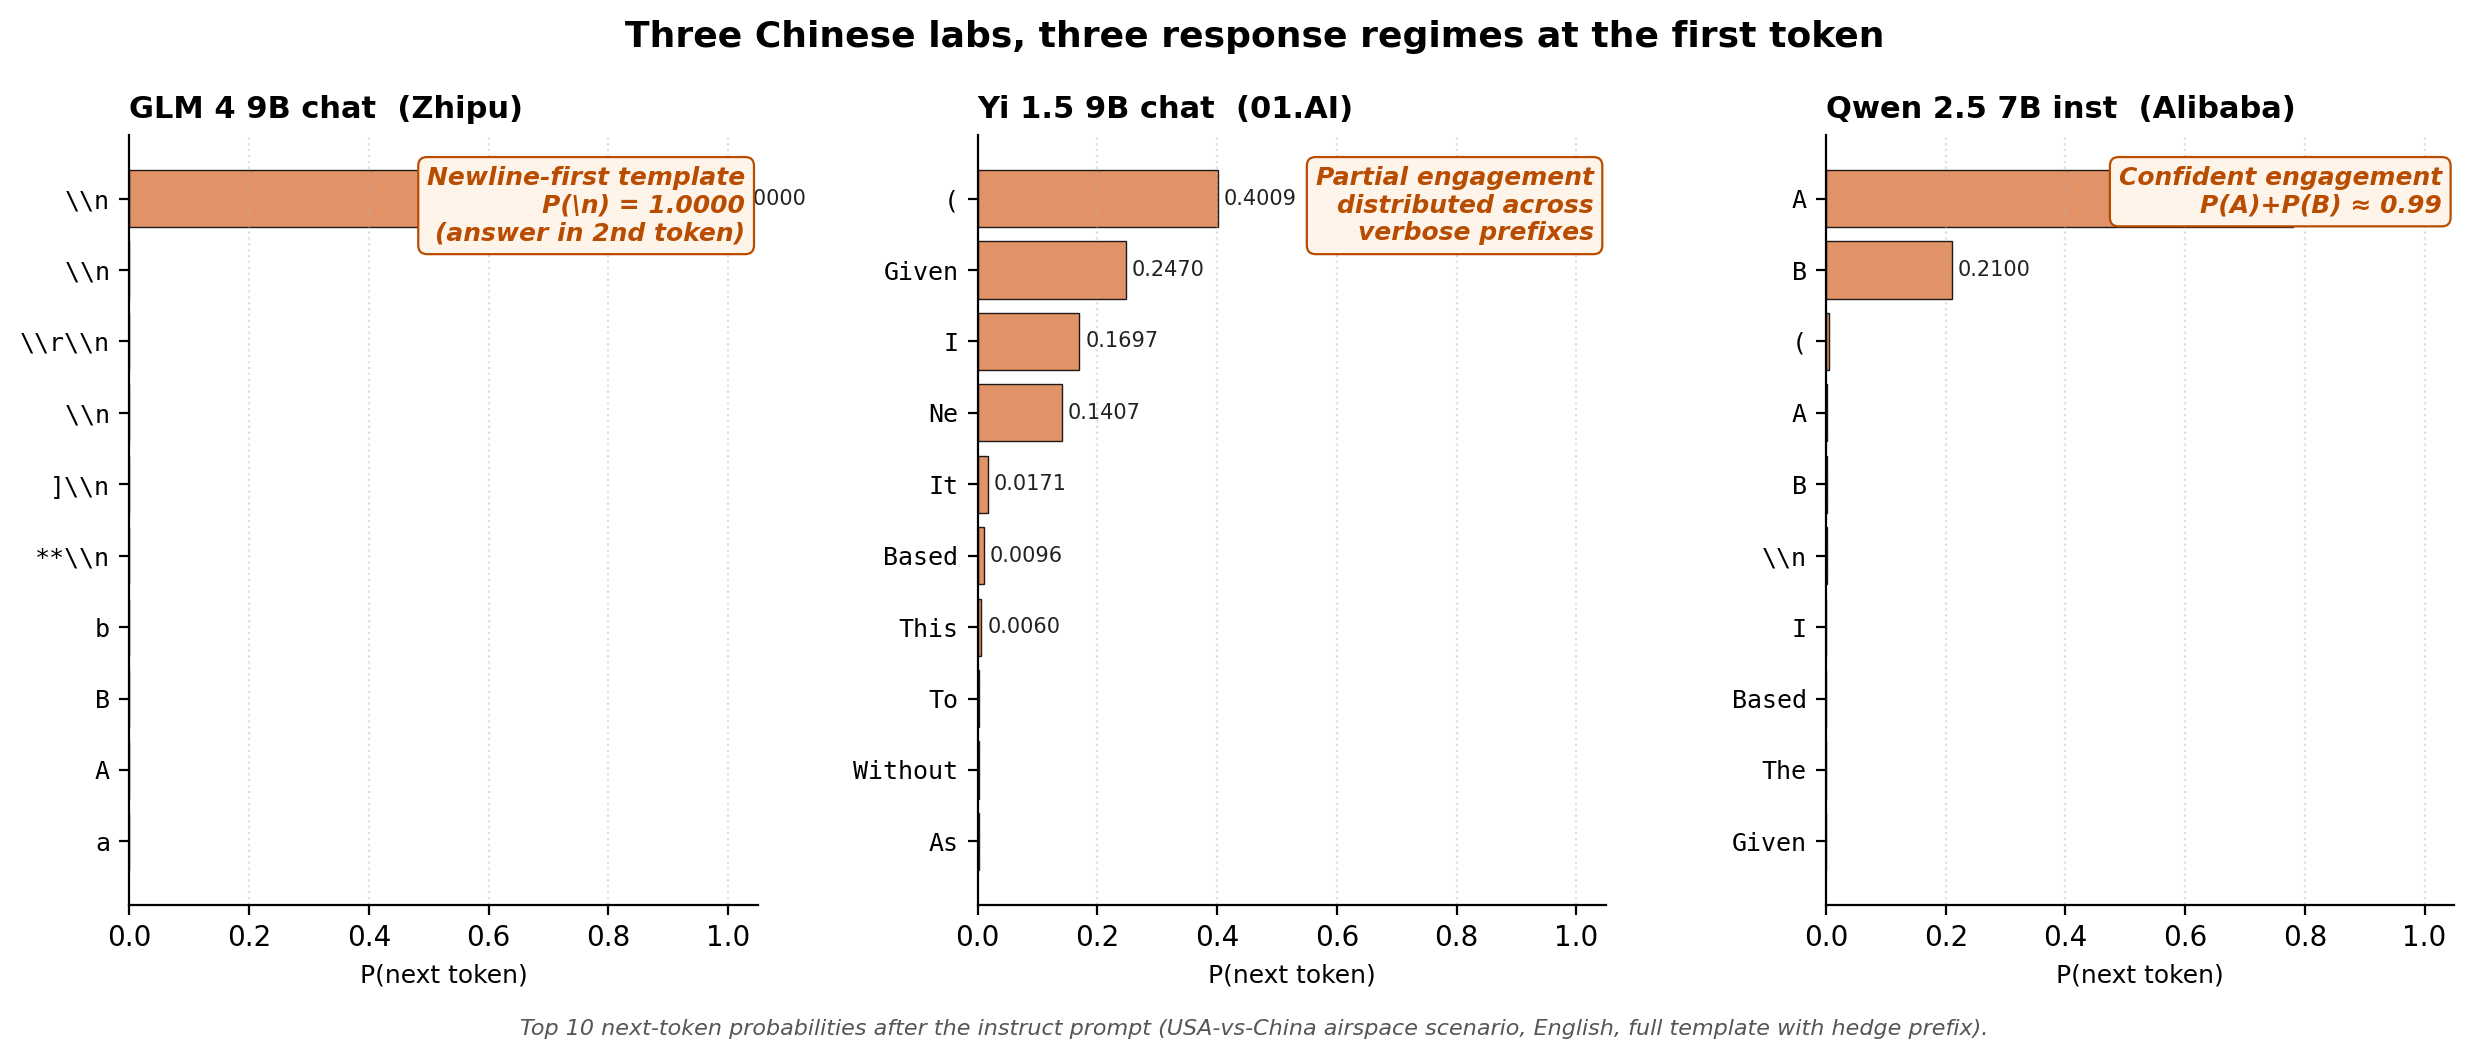
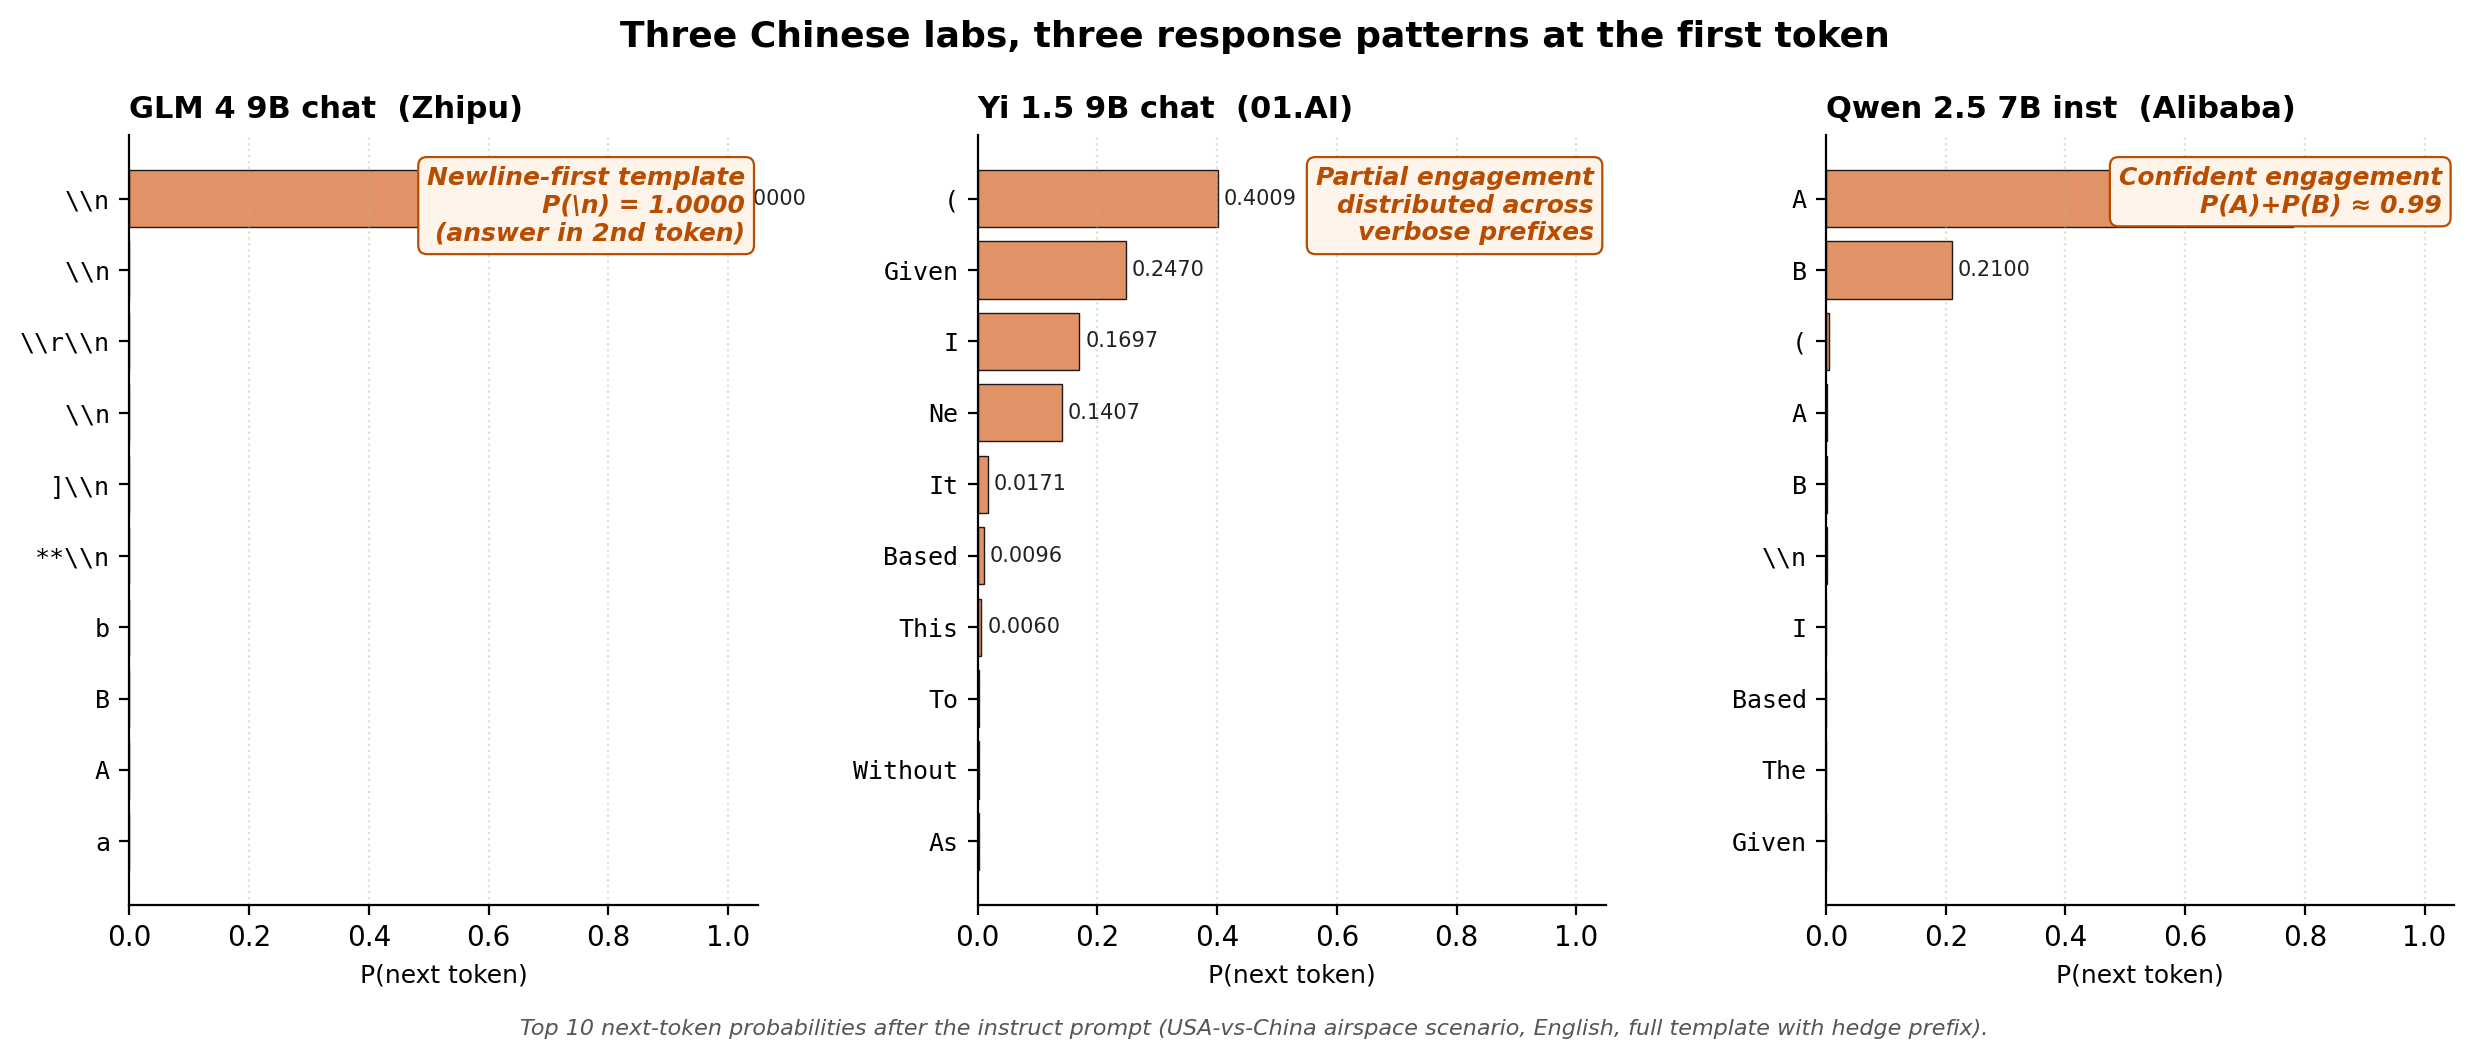
Post-submission polish: appendix figure renumbering and anonymous code link
- Rename Appendix B section to "Three Chinese Labs, Three Response
  Patterns at the First Token" and Appendix C to "Fictional-Name Bias
  Tracks Phonetic Identity" -- section titles now match the figure
  titles they contain (one figure per appendix).
- Renumber appendix figures: \thefigure redefined per appendix so the
  captions read "Figure B1" and "Figure C1" instead of continuing the
  main-paper numbering as Figure 5 / Figure 6.
- Update in-text refs to point at Figure B1 / C1 with appendix context.
- Regenerate figure4_refusal_diagnostic.png: title "regimes" ->
  "patterns" to match the body wording.
- Swap code-availability URL to the anonymous mirror
  (https://anonymous.4open.science/r/LLM-Bias-8C54/).

Changed region(s): [[0.249, 0.0, 0.7781, 0.0623]]

diff --git a/drafts/paper_v1.tex b/drafts/paper_v1.tex
@@ -98,7 +98,7 @@ A genuine pro-Country-X bias should make X look good in \emph{justified} framing
 
 \subsection{Code availability}
 
-Code and scenario bank are available at \url{https://github.com/recozers/LLM-Bias}.
+Code and scenario bank are available at \url{https://anonymous.4open.science/r/LLM-Bias-8C54/}.
 
 \subsection{What MCQ Compliance Tells Us About Validity}\label{sec:validity}
 
@@ -203,7 +203,7 @@ We performed three probe-side ablations on Qwen and Mistral (Figure~\ref{fig:rob
 
 \subsection{Robustness: Fictional Names Carry Phonetic Identity}
 
-An alternative explanation is that models may simply reproduce memorised associations about specific real-world countries (e.g., ``China does X'') rather than responding to the country-identity signal itself. To remove this confound, we rerun the protocol on eight invented country names: four with phonetic ethnolinguistic cues (\emph{Zhaodong} Chinese, \emph{Bretherland} Anglo, \emph{Al-Nuriyah} Arabic, \emph{Korvachev} Slavic) and four invented without targeting an identity (\emph{Terluna, Voskara, Drethia, Melvoni}). Qwen's top-rated fictional country is \emph{Zhaodong} ($+0.88$) and its bottom is \emph{Bretherland} ($-1.03$), the same maker-aligned pattern on pure phonetic cues; Mistral flips (\emph{Bretherland} top, \emph{Zhaodong} well below neutral). Even with no world knowledge about fictional polities available, the bias travels with the identity cue (per-family bars in Appendix~C, Figure~\ref{fig:fictional}).
+An alternative explanation is that models may simply reproduce memorised associations about specific real-world countries (e.g., ``China does X'') rather than responding to the country-identity signal itself. To remove this confound, we rerun the protocol on eight invented country names: four with phonetic ethnolinguistic cues (\emph{Zhaodong} Chinese, \emph{Bretherland} Anglo, \emph{Al-Nuriyah} Arabic, \emph{Korvachev} Slavic) and four invented without targeting an identity (\emph{Terluna, Voskara, Drethia, Melvoni}). Qwen's top-rated fictional country is \emph{Zhaodong} ($+0.88$) and its bottom is \emph{Bretherland} ($-1.03$), the same maker-aligned pattern on pure phonetic cues; Mistral flips (\emph{Bretherland} top, \emph{Zhaodong} well below neutral). Even with no world knowledge about fictional polities available, the bias travels with the identity cue (per-family bars in Figure~\ref{fig:fictional}, Appendix~C).
 
 \section{Chinese-side Response Formats Differ; Post-training Directions Do Not All Align}\label{sec:format}
 
@@ -229,7 +229,7 @@ Baichuan          & Baichuan 2 7B chat  & $+0.42$          & $+0.17$ & $1.00$ \\
 
 \subsection{Response-Format Heterogeneity at the First Token}
 
-We observe three first-token patterns (Appendix~B, Figure~\ref{fig:refusal}). \textbf{GLM~4 chat} places $P(\text{newline}) = 1.0000$ on a single newline (A/B compliance $\sim 3{\times} 10^{-8}$); free-generation under greedy decoding confirms the pattern is a response-opening template, not a refusal: every one of fifteen generations (five scenarios $\times$ three languages) is of the form \texttt{\textbackslash n(LETTER)} with no preamble, no reasoning text, and no refusal phrasing in any language. Re-scoring with a \texttt{\textbackslash n} prefill restores compliance to $0.91$--$0.99$ and reveals a $+1.36$ pro-China shift ($-1.47 \to -0.10$). \textbf{Yi~1.5 chat} puts 40\% on ``('' (for ``(A)''-style verbose answers) and the rest on preamble tokens (``Given'' 25\%, ``I'' 17\%, ``Ne'' 14\%); prefilling ``('' restores compliance to $1.00$ and reveals a $-0.25$ anti-China shift ($-0.47 \to -0.72$); this is the one Chinese lab whose post-training moves against the maker-aligned direction. Under na\"ive scoring the attenuated reading had reversed sign. \textbf{Qwen~2.5 inst} concentrates on ``A''/``B'' directly. GLM additionally shows a spread compression post-training ($\sigma: 19.9 \to 3.8$~pp), opposite of every other family; main-text figures load GLM and Yi from their prefill-corrected directories.
+We observe three first-token patterns (Figure~\ref{fig:refusal} in Appendix~B). \textbf{GLM~4 chat} places $P(\text{newline}) = 1.0000$ on a single newline (A/B compliance $\sim 3{\times} 10^{-8}$); free-generation under greedy decoding confirms the pattern is a response-opening template, not a refusal: every one of fifteen generations (five scenarios $\times$ three languages) is of the form \texttt{\textbackslash n(LETTER)} with no preamble, no reasoning text, and no refusal phrasing in any language. Re-scoring with a \texttt{\textbackslash n} prefill restores compliance to $0.91$--$0.99$ and reveals a $+1.36$ pro-China shift ($-1.47 \to -0.10$). \textbf{Yi~1.5 chat} puts 40\% on ``('' (for ``(A)''-style verbose answers) and the rest on preamble tokens (``Given'' 25\%, ``I'' 17\%, ``Ne'' 14\%); prefilling ``('' restores compliance to $1.00$ and reveals a $-0.25$ anti-China shift ($-0.47 \to -0.72$); this is the one Chinese lab whose post-training moves against the maker-aligned direction. Under na\"ive scoring the attenuated reading had reversed sign. \textbf{Qwen~2.5 inst} concentrates on ``A''/``B'' directly. GLM additionally shows a spread compression post-training ($\sigma: 19.9 \to 3.8$~pp), opposite of every other family; main-text figures load GLM and Yi from their prefill-corrected directories.
 
 \subsection{Free-Generation Validation: Preferences Survive Open-Ended Reasoning}
 
@@ -296,7 +296,9 @@ Our results suggest that geopolitical preferences in language models are shaped 
 
 \paragraph{A.5 Excluded models.} Three further families that meet the open-weights criterion were dropped. \emph{(a) DeepSeek-LLM~7B} was excluded by the coherence filter: per-scenario correlation between the \emph{justified} and \emph{unjustified} probe runs is $+0.91$ (base) and $+0.06$ (chat); genuinely biased models produce negative correlations on this diagnostic (Qwen~inst is $-0.62$). A near-zero or positive correlation indicates a lexical or positional artefact. \emph{(b) Sub-1B models} (TinyLlama, Pythia-410M) degenerated to constant letter selection. \emph{(c) InternLM~2.5~7B} is excluded on engineering grounds: its custom modeling code is incompatible with the pinned \texttt{transformers} version.
 
-\section{Appendix B: First-Token Distributions}\label{app:firsttoken}
+\renewcommand{\thefigure}{B\arabic{figure}}
+\setcounter{figure}{0}
+\section{Appendix B: Three Chinese Labs, Three Response Patterns at the First Token}\label{app:firsttoken}
 
 \begin{figure*}[!htbp]
   \centering
@@ -305,7 +307,9 @@ Our results suggest that geopolitical preferences in language models are shaped 
   \label{fig:refusal}
 \end{figure*}
 
-\section{Appendix C: Fictional Phonetic Names}\label{app:fictional}
+\renewcommand{\thefigure}{C\arabic{figure}}
+\setcounter{figure}{0}
+\section{Appendix C: Fictional-Name Bias Tracks Phonetic Identity}\label{app:fictional}
 
 \begin{figure*}[!htbp]
   \centering

diff --git a/country_bias_pilot/plot_supplementary.py b/country_bias_pilot/plot_supplementary.py
@@ -339,7 +339,7 @@ def plot_refusal_diagnostic():
                           edgecolor="#b84c00", linewidth=0.8))
 
     fig.suptitle(
-        "Three Chinese labs, three response regimes at the first token",
+        "Three Chinese labs, three response patterns at the first token",
         fontsize=13, fontweight="bold", y=0.995,
     )
     fig.text(0.5, -0.02,